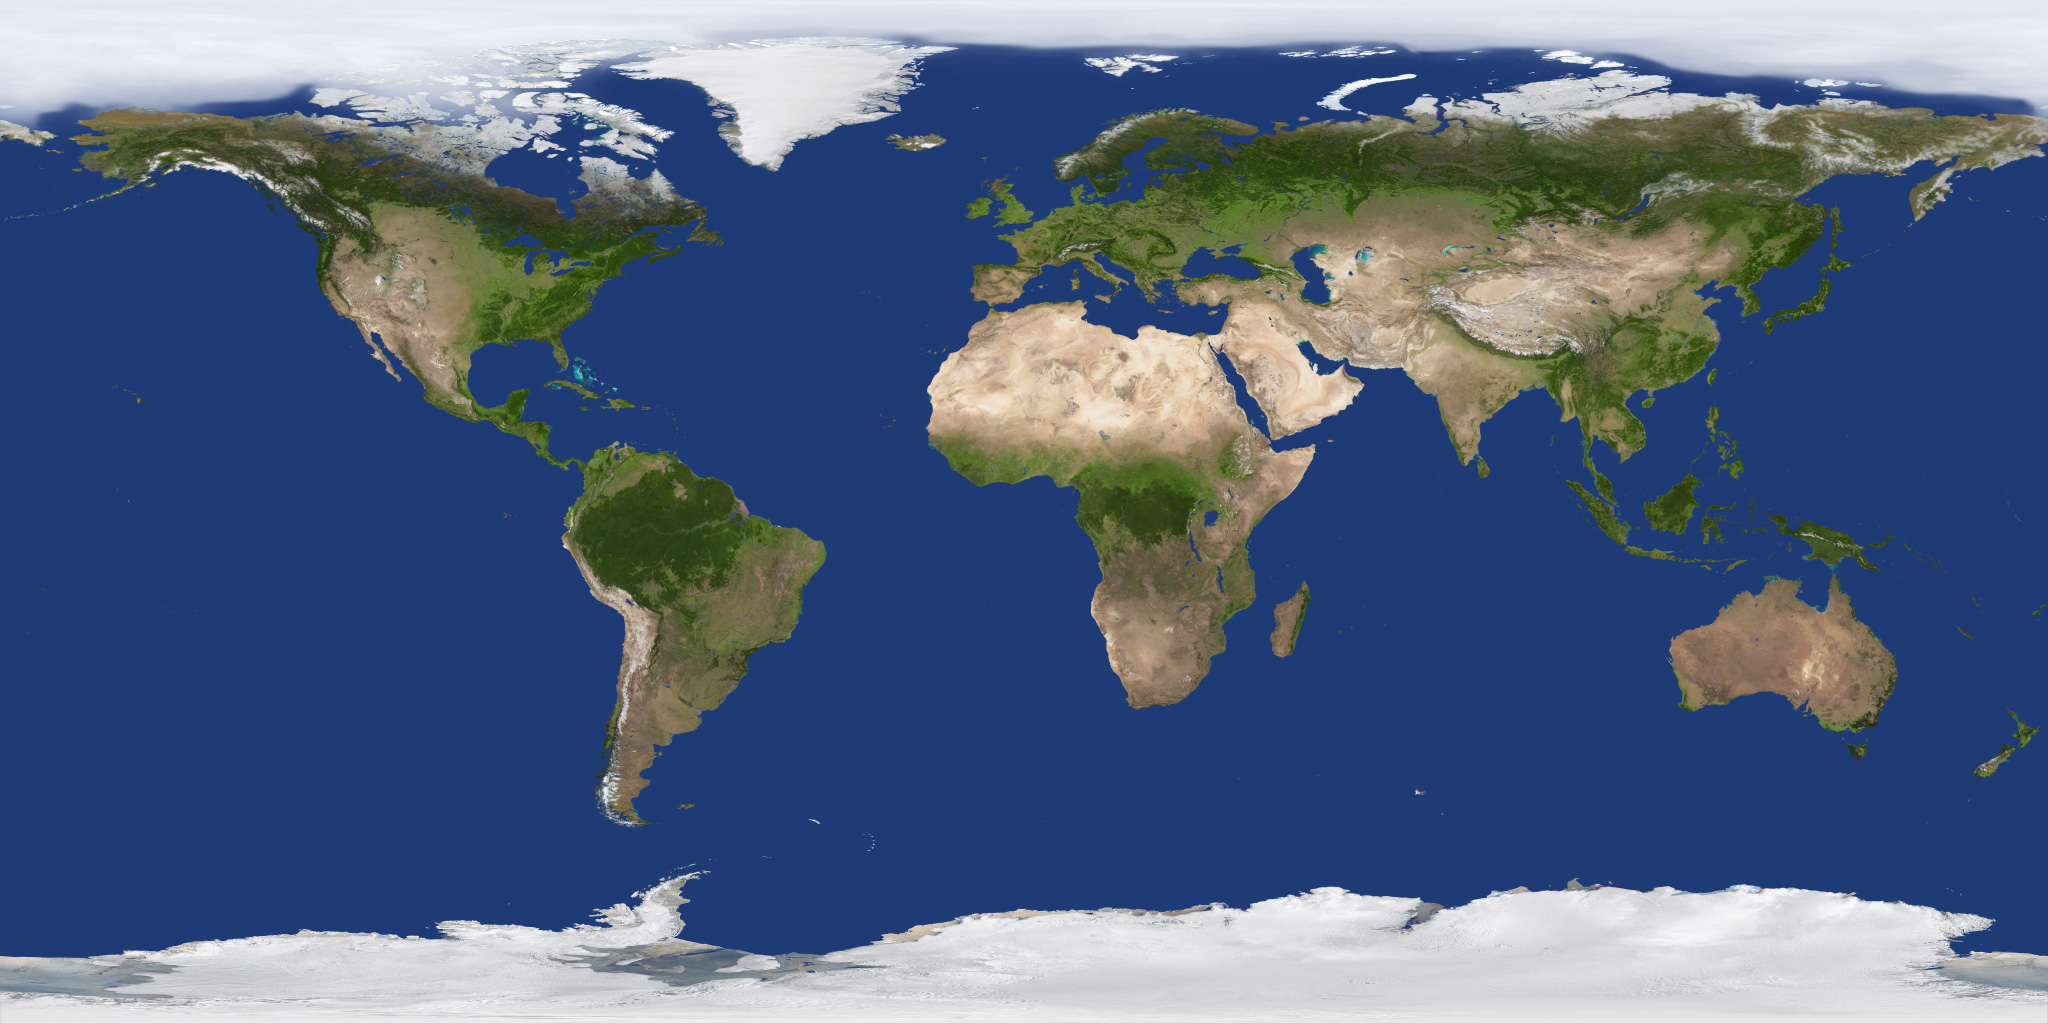
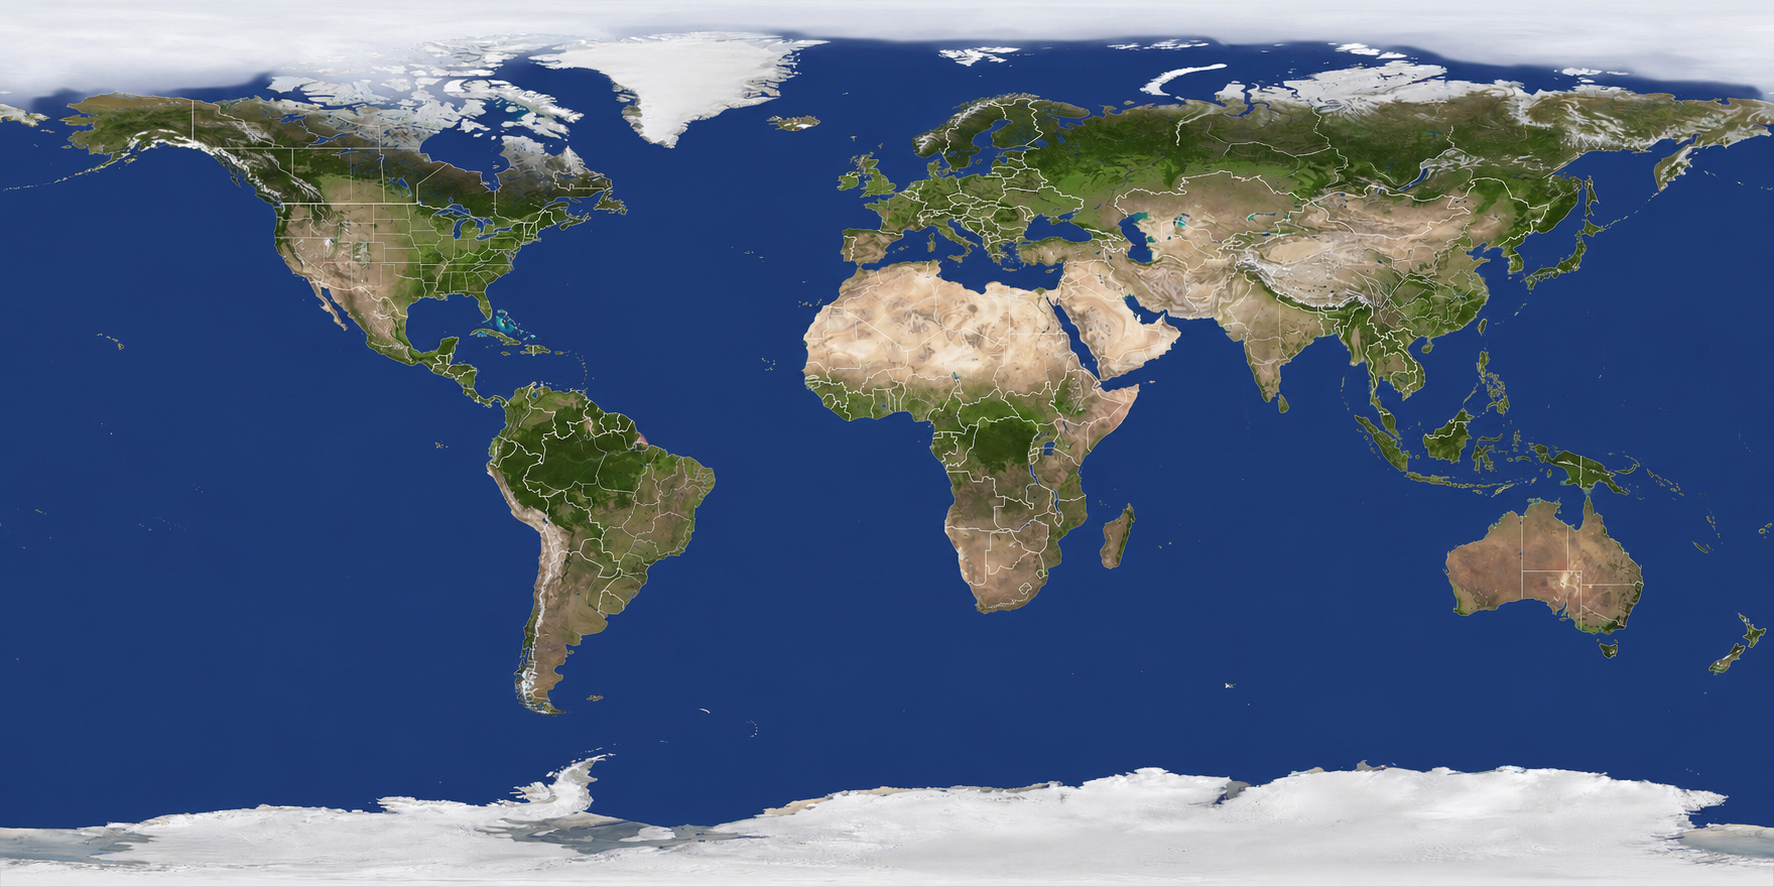
refactor(map): create map cubit in widget tree

diff --git a/lib/core/di/service_locator.dart b/lib/core/di/service_locator.dart
@@ -5,7 +5,6 @@ import 'package:travel_journal_app/features/countries/data/countries_api_service
 import 'package:travel_journal_app/features/countries/data/countries_remote_data_source.dart';
 import 'package:travel_journal_app/features/countries/data/countries_repository.dart';
 import '../../features/map/data/device_location_service.dart';
-import '../../features/map/logic/map_cubit.dart';
 
 final getIt = GetIt.instance;
 
@@ -33,6 +32,4 @@ void setupServiceLocator() {
   getIt.registerLazySingleton<DeviceLocationService>(
     () => DeviceLocationService(),
   );
-
-  getIt.registerFactory<MapCubit>(() => MapCubit(getIt()));
 }

diff --git a/lib/features/map/presentation/map_page.dart b/lib/features/map/presentation/map_page.dart
@@ -18,7 +18,8 @@ class MapPage extends StatelessWidget {
   @override
   Widget build(BuildContext context) {
     return BlocProvider(
-      create: (_) => getIt<MapCubit>()..loadInitialLocation(),
+      create: (_) =>
+          MapCubit(getIt<DeviceLocationService>())..loadInitialLocation(),
       child: const _MapView(),
     );
   }